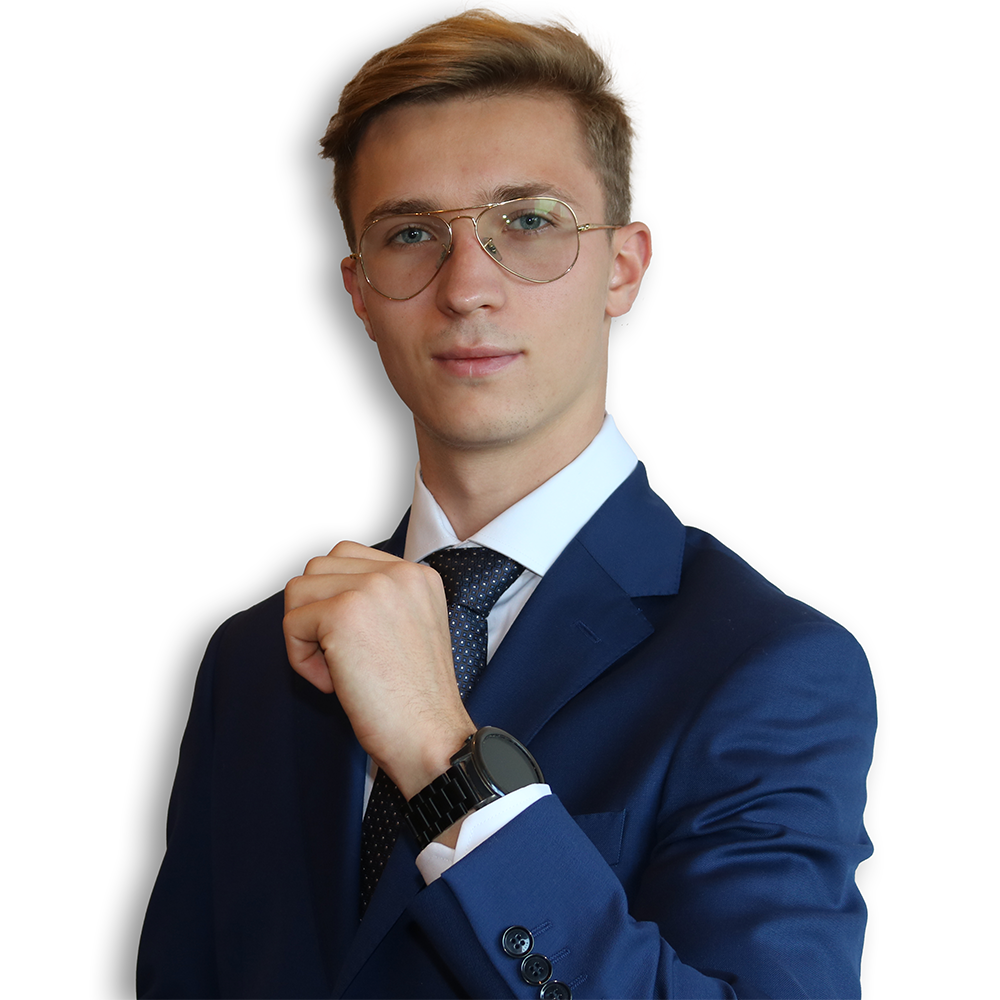
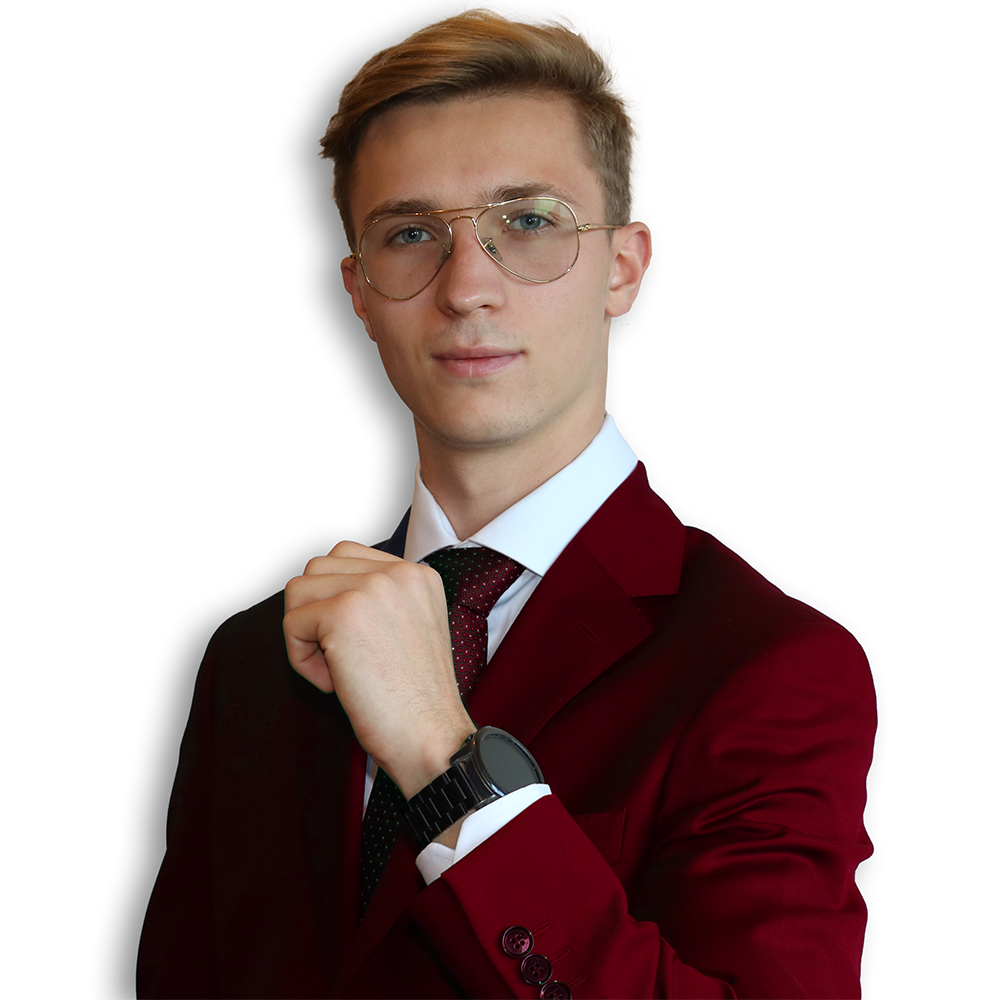
Red Suit and smaller images

Changed region(s): [[0.155, 0.465, 0.899, 1.0]]

diff --git a/pages/me/index.js b/pages/me/index.js
@@ -2,8 +2,8 @@ import Head from "next/head";
 import Image from "next/image";
 import myPhoto from "../../assets/me.png";
 import styles from "./Me.module.css";
-import photo0 from "../../assets/hobbies/0.jpg";
-import photo1 from "../../assets/hobbies/1.jpg";
+import photo0 from "../../assets/hobbies/0.png";
+import photo1 from "../../assets/hobbies/1.png";
 import Swiper from "../../components/Swiper/Swiper";
 import InfoDropDown from "../../components/InfoDropDown/InfoDropDown";
 
